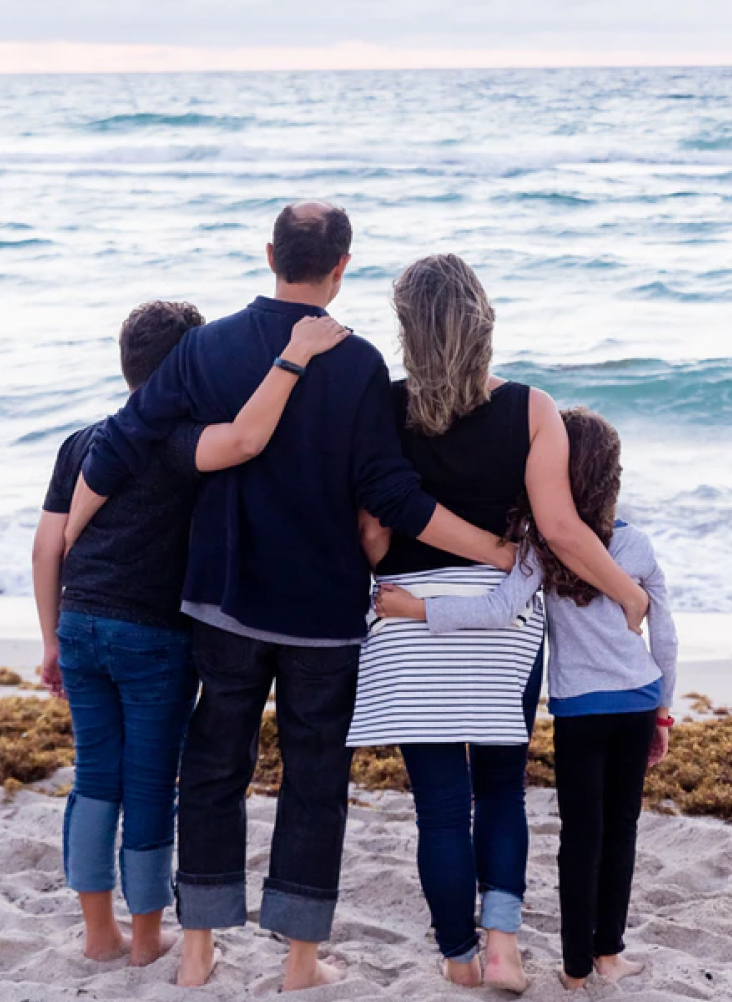
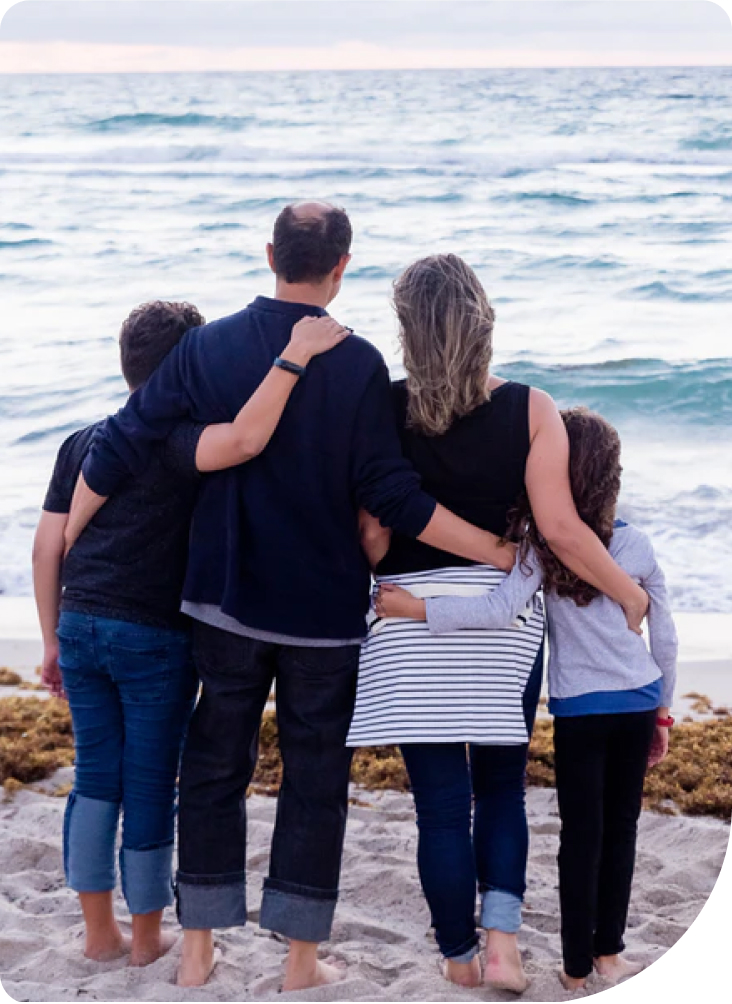
finish page detail + edit some file before

diff --git a/src/parts/BookingForm.js b/src/parts/BookingForm.js
@@ -1,0 +1,108 @@
+import React, { Component } from 'react'
+
+import propTypes from 'prop-types'
+
+import Button from 'elements/Button'
+import { InputNumber, InputDate } from 'elements/Form'
+
+import FormatNumber from 'utils/formatNumber'
+
+export default class BookingForm extends Component {
+    constructor(props) {
+        super(props);
+        this.state = {
+            data: {
+                duration: 1,
+                date: {
+                    startDate: new Date(),
+                    endDate: new Date(),
+                    key: "selection"
+                }
+            }
+        }
+    }
+
+    updateData = e => {
+        this.setState({
+            ...this.state,
+            data: {
+                ...this.state.data,
+                [e.target.name]: e.target.value
+            }
+        })
+    }
+
+    componentDidUpdate(prevProps, prevState) {
+        const { data } = this.state
+
+        if(prevState.data.date !== data.date) {
+            const startDate = new Date(data.date.startDate)
+            const endDate = new Date(data.date.endDate)
+            const countDuration = new Date(endDate - startDate).getDate()
+            this.setState({
+                data: {
+                    ...this.state.data,
+                    duration: countDuration
+                }
+            })
+        }
+
+        if(prevState.data.duration !== data.duration) {
+            const startDate = new Date(data.date.startDate)
+            const endDate = new Date(
+                startDate.setDate(startDate.getDate() + +data.duration - 1)
+            )
+            this.setState({
+                ...this.state,
+                data: {
+                    ...this.state.data,
+                    date: {
+                        ...this.state.data.date,
+                        endDate: endDate
+                    }
+                }
+            })
+        }
+    }
+    
+    render() {
+        const { data } = this.state
+        const { itemDetails, startBooking } = this.props
+
+        return (
+            <div className="card bordered" style={{ padding: '60px 80px' }}>
+                <h4 className="mb-3">Start Booking</h4>
+                <h5 className="h2 text-teal mb-4">
+                    Rp. {FormatNumber(itemDetails.price)}{" "}
+                    <span className="text-gray-500 font-weight-light">
+                        per {itemDetails.unit}
+                    </span>
+                </h5>
+
+                <label htmlFor="duration">How long you will stay?</label>
+                <InputNumber max={30} suffix={" night"} isSuffixPlural onChange={this.updateData} name="duration" value={data.duration} />
+
+                <label htmlFor="date">Pick a date</label>
+                <InputDate onChange={this.updateData} name="date" value={data.date} />
+
+                <h6 className="text-gray-500 font-weight-light" style={{ marginBottom: 40 }}>
+                    You will pay{" "}
+                    <span className="text-gray-900">
+                        Rp. {FormatNumber(itemDetails.price * data.duration)}
+                    </span>{" "}
+                    per{" "}
+                    <span className="text-gray-900">
+                        {data.duration} {itemDetails.unit}
+                    </span>
+                </h6>
+
+                <Button className="btn" hasShadow isPrimary isBlock onClick={startBooking}>Continue to Book</Button>
+            </div>
+        )
+    }
+}
+
+BookingForm.propTypes = {
+    itemDetails: propTypes.object,
+    startBooking: propTypes.func
+}

diff --git a/src/elements/Form/InputNumber/index.js b/src/elements/Form/InputNumber/index.js
@@ -1,4 +1,4 @@
-import React, { useState } from 'react'
+import React from 'react'
 
 import propTypes from 'prop-types'
 
@@ -6,24 +6,17 @@ import "./index.scss"
 
 export default function Number(props) {
     const { value, placeholder, name, min, max, prefix, suffix, isSuffixPlural } = props
-    const [InputValue, setInputValue] = useState(`${prefix}${value}${suffix}`)
 
     const onChange = e => {
         let value = String(e.target.value)
-        if(prefix) value = value.replace(prefix)
-        if(suffix) value = value.replace(suffix)
 
-        const patternNumeric = new RegExp("[0-9]*")
-        const isNumeric = patternNumeric.test(value)
-
-        if(isNumeric && +value <= max && +value >= min) {
+        if(+value <= max && +value >= min) {
             props.onChange({
                 target: {
                     name: name,
                     value: +value
                 }
             })
-            setInputValue(`${prefix}${value}${suffix}${isSuffixPlural && value > 1 ? "s" : ""}`)
         }
     }
 
@@ -47,6 +40,8 @@ export default function Number(props) {
         })
     }
 
+    console.log(value)
+
     return (
         <div className={["input-number mb-3", props.outerClassName].join("")}>
             <div className="input-group">
@@ -55,7 +50,7 @@ export default function Number(props) {
                         -
                     </span>
                 </div>
-                <input min={min} max={max} name={name} pattern="[0-9]*" className="form-control" placeholder={placeholder ? placeholder : "0"} value={String(InputValue)} onChange={onChange} />
+                <input min={min} max={max} name={name} className="form-control" placeholder={placeholder ? placeholder : "0"} value={`${prefix}${value}${suffix}${isSuffixPlural && value > 1 ? "s" : ""}`} onChange={onChange} />
                 <div className="input-group-append">
                     <span className="input-group-text plus" onClick={plus}>
                         +

diff --git a/src/pages/DetailsPage.js b/src/pages/DetailsPage.js
@@ -1,0 +1,53 @@
+import React, { Component } from 'react'
+
+import Fade from 'react-reveal/Fade'
+
+import Header from 'parts/Header'
+import PageDetailTitle from 'parts/PageDetailTitle'
+import FeaturedImage from 'parts/FeaturedImage'
+import PageDetailDescription from 'parts/PageDetailDescription'
+import BookingForm from 'parts/BookingForm'
+import Categories from 'parts/Categories'
+import Testimony from 'parts/Testimony'
+import Footer from 'parts/Footer'
+
+import ItemDetails from 'json/itemDetails.json'
+
+export default class DetailsPage extends Component {
+    componentDidMount() {
+        window.title = "InnCation | Details Page"
+        window.scrollTo(0, 0)
+    }
+
+    render() {
+        const breadcrumb = [
+            { pageTitle: "Home", pageHref: "" },
+            { pageTitle: "House Details", pageHref: "" }
+        ]
+
+        return (
+            <>
+                <Header {...this.props} />
+                <PageDetailTitle breadcrumb={breadcrumb} data={ItemDetails} />
+                <FeaturedImage data={ItemDetails.imageUrls} />
+                <section className="container">
+                    <div className="row">
+                        <div className="col-7 pr-5">
+                            <Fade bottom>
+                                <PageDetailDescription data={ItemDetails} />
+                            </Fade>
+                        </div>
+                        <div className="col-5">
+                            <Fade bottom>
+                                <BookingForm itemDetails={ItemDetails} />
+                            </Fade>
+                        </div>
+                    </div>
+                </section>
+                <Categories data={ItemDetails.categories} />
+                <Testimony data={ItemDetails.testimonial} />
+                <Footer />
+            </>
+        )
+    }
+}

diff --git a/src/parts/PageDetailDescription.js b/src/parts/PageDetailDescription.js
@@ -1,0 +1,24 @@
+import React from 'react'
+import ReactHtmlParser from 'react-html-parser'
+
+export default function PageDetailDescription({ data }) {
+    return (
+        <main>
+            <h4 className="font-weight-bold">About The Place</h4>
+            {ReactHtmlParser(data.description)}
+            <div className="row" style={{ marginTop: 30 }}>
+                {data.features.map((feature, index) => {
+                    return (
+                        <div key={`feature-${index}`} className="col-3" style={{ marginBottom: 20 }}>
+                            <img width="38" className="d-block mb-2" src={feature.imageUrl} alt={feature.name} />{" "}
+                            <span>{feature.qty}</span>{" "}
+                            <span className="text-gray-500 font-weight-light">
+                                {feature.name}
+                            </span>
+                        </div>
+                    )
+                })}
+            </div>
+        </main>
+    )
+}

diff --git a/src/parts/FeaturedImage.js b/src/parts/FeaturedImage.js
@@ -1,0 +1,24 @@
+import React from 'react'
+import Fade from 'react-reveal/Fade'
+
+export default function FeaturedImage({ data }) {
+    return (
+        <section className="container">
+            <div className="container-grid sm">
+                {data.map((item, index) => {
+                    return (
+                        <div key={`FeaturedImage-${index}`} className={`item ${index > 0 ? "column-5" : "column-7"} ${index > 0 ? "row-1" : "row-2"}`}>
+                            <Fade bottom delay={300 * index}>
+                                <div className="card h-100">
+                                    <figure className="img-wrapper">
+                                        <img className="img-cover" src={item.url} alt={item._id} />
+                                    </figure>
+                                </div>
+                            </Fade>
+                        </div>
+                    )
+                })}
+            </div>
+        </section>
+    )
+}

diff --git a/src/parts/PageDetailTitle.js b/src/parts/PageDetailTitle.js
@@ -1,0 +1,23 @@
+import React from 'react'
+import Fade from 'react-reveal/Fade'
+
+import Breadcrumb from 'elements/Breadcrumb'
+
+export default function PageDetailTitle({ data, breadcrumb }) {
+    return (
+        <section className="container spacing-sm">
+            <Fade bottom>
+                <div className="row align-items-center">
+                    <div className="col">
+                        <Breadcrumb data={breadcrumb} />
+                    </div>
+                    <div className="col-auto text-center">
+                        <h1 className="h2 font-weight-bold">{data.name}</h1>
+                        <span className="text-gray-400">{data.city}, {data.country}</span>
+                    </div>
+                    <div className="col"></div>
+                </div>
+            </Fade>
+        </section>
+    )
+}

diff --git a/src/pages/Example.js b/src/pages/Example.js
@@ -1,0 +1,22 @@
+import React, { Component } from 'react'
+
+import Breadcrumb from 'elements/Breadcrumb'
+
+export default class Example extends Component {
+    render() {
+        const breadcrumb = [
+            { pageTitle: "Home", pageHref: "" },
+            { pageTitle: "House Details", pageHref: "" }
+        ]
+
+        return (
+            <div className="container">
+                <div className="row align-items-center justify-content-center" style={{ height: "100vh" }}>
+                    <div className="col-auto">
+                        <Breadcrumb data={breadcrumb} />
+                    </div>
+                </div>
+            </div>
+        )
+    }
+}

diff --git a/src/App.js b/src/App.js
@@ -1,14 +1,18 @@
 import React from 'react';
 import { BrowserRouter as Router, Route } from 'react-router-dom'
 
+import LandingPage from 'pages/LandingPage'
+import DetailsPage from 'pages/DetailsPage'
+import Example from 'pages/Example'
 
 import 'assets/scss/style.scss'
-import LandingPage from 'pages/LandingPage'
 
 function App() {
   return <div className="App">
       <Router>
-        <Route path="/" component={LandingPage}></Route>
+        <Route exact path="/" component={LandingPage}></Route>
+        <Route exact path="/properties/:id" component={DetailsPage}></Route>
+        <Route path="/example" component={Example}></Route>
       </Router>
   </div>
 }

diff --git a/src/assets/scss/style.scss b/src/assets/scss/style.scss
@@ -105,7 +105,11 @@ section {
 }
 
 .card {
-    height: 100%;
+    &.bordered {
+        border: 1px solid $gray-200;
+    }
+
+    border-radius: 15px;
 
     .tag {
         z-index: 3;
@@ -145,7 +149,7 @@ section {
         overflow: hidden;
         cursor: pointer;
         height: 100%;
-        border-radius: 15px;
+        
         &:after {
             position: absolute;
             content: "";
@@ -233,5 +237,12 @@ footer {
         margin: 50px 0;
         font-weight: 300;
         color: $gray-500;
+    }
+}
+
+main {
+    p {
+        color: $gray-500;
+        font-weight: 300;
     }
 }

diff --git a/src/elements/Breadcrumb/index.js b/src/elements/Breadcrumb/index.js
@@ -8,7 +8,7 @@ import './index.scss'
 export default function Breadcrumb(props) {
     return (
         <nav aria-label="breadcrumb">
-            <ol className={className.join(" ")}>
+            <ol className="breadcrumb">
                 {props.data.map((item, index) => {
                     return (
                         <li key={`breadcrumb-${index}`} className={`breadcrumb-item${index === props.data.length - 1 ? " active" : ""}`}>

diff --git a/src/assets/scss/_colorVariables.scss b/src/assets/scss/_colorVariables.scss
@@ -14,9 +14,9 @@ $blue:    #007bff !default;
 $indigo:  #3252df !default;
 $purple:  #6f42c1 !default;
 $pink:    #ff498b !default;
-$red:     #dc3545 !default;
+$red:     #e74c3c !default;
 $orange:  #fd7e14 !default;
 $yellow:  #ffcc47 !default;
 $green:   #28a745 !default;
-$teal:    #20c997 !default;
+$teal:    #1abc9c !default;
 $cyan:    #17a2b8 !default;

diff --git a/src/assets/scss/_variables.scss b/src/assets/scss/_variables.scss
@@ -214,7 +214,7 @@ $line-height-sm:              1.5 !default;
 $border-width:                1px !default;
 $border-color:                $gray-300 !default;
 
-$border-radius:               .25rem !default;
+$border-radius:               0.9875rem !default;
 $border-radius-lg:            .3rem !default;
 $border-radius-sm:            .2rem !default;
 
